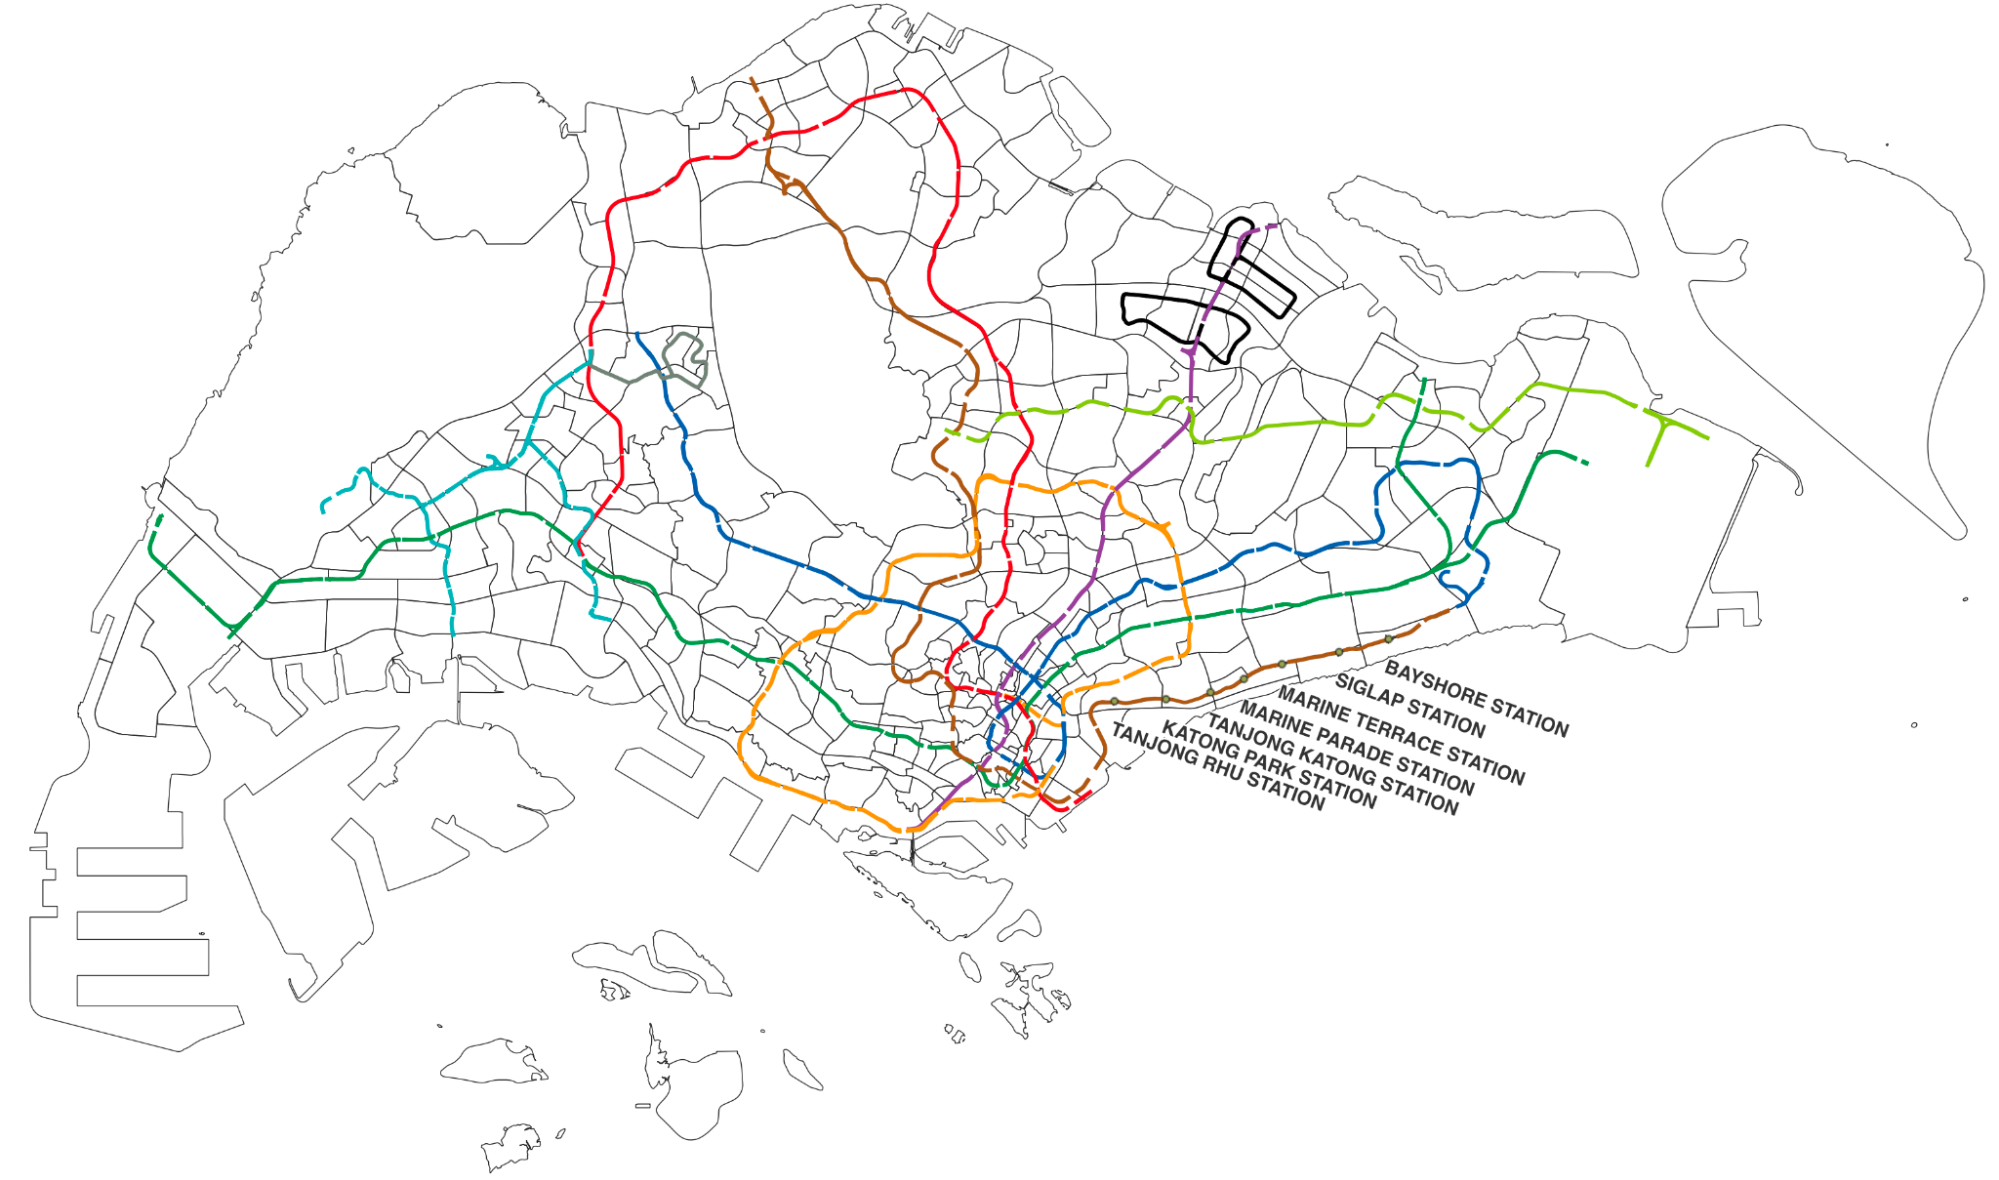
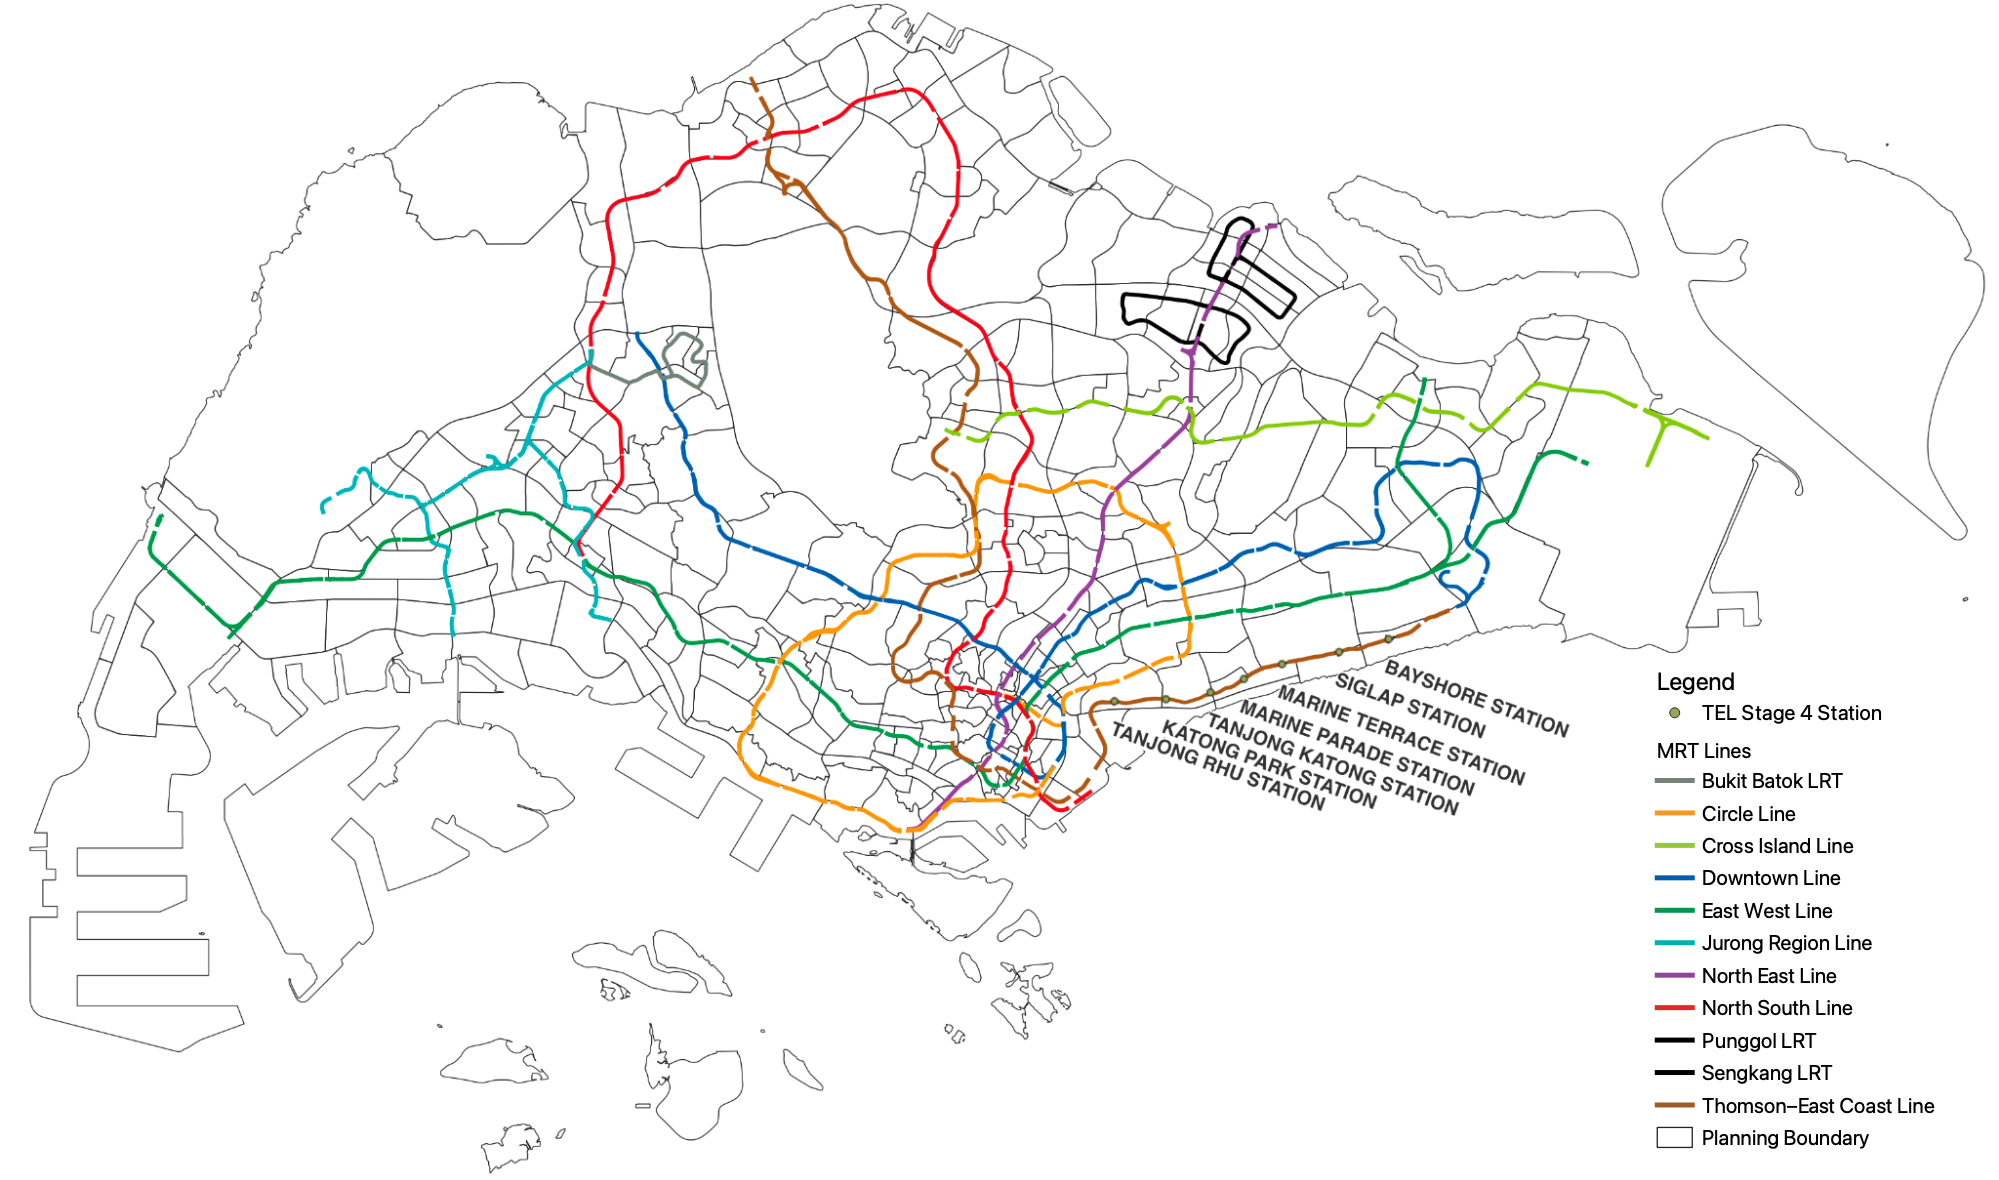
Final update

Changed region(s): [[0.8374, 0.5492, 0.9615, 0.9763]]

diff --git a/_site/takeaways.html b/_site/takeaways.html
@@ -112,6 +112,17 @@ ul.task-list li input[type="checkbox"] {
   <li><a href="#introduction" id="toc-introduction" class="nav-link active" data-scroll-target="#introduction">Introduction</a></li>
   <li><a href="#circular-buffer-analysis" id="toc-circular-buffer-analysis" class="nav-link" data-scroll-target="#circular-buffer-analysis">Circular Buffer Analysis</a></li>
   <li><a href="#network-analysis" id="toc-network-analysis" class="nav-link" data-scroll-target="#network-analysis">Network Analysis</a></li>
+  <li><a href="#produced-maps" id="toc-produced-maps" class="nav-link" data-scroll-target="#produced-maps">Produced maps</a>
+  <ul class="collapse">
+  <li><a href="#legend" id="toc-legend" class="nav-link" data-scroll-target="#legend">Legend</a></li>
+  <li><a href="#tanjong-rhu-station" id="toc-tanjong-rhu-station" class="nav-link" data-scroll-target="#tanjong-rhu-station">Tanjong Rhu Station</a></li>
+  <li><a href="#katong-park-station" id="toc-katong-park-station" class="nav-link" data-scroll-target="#katong-park-station">Katong Park Station</a></li>
+  <li><a href="#tanjong-katong-station" id="toc-tanjong-katong-station" class="nav-link" data-scroll-target="#tanjong-katong-station">Tanjong Katong Station</a></li>
+  <li><a href="#marine-parade-station" id="toc-marine-parade-station" class="nav-link" data-scroll-target="#marine-parade-station">Marine Parade Station</a></li>
+  <li><a href="#marine-terrace-station" id="toc-marine-terrace-station" class="nav-link" data-scroll-target="#marine-terrace-station">Marine Terrace Station</a></li>
+  <li><a href="#siglap-station" id="toc-siglap-station" class="nav-link" data-scroll-target="#siglap-station">Siglap Station</a></li>
+  <li><a href="#bayshore-station" id="toc-bayshore-station" class="nav-link" data-scroll-target="#bayshore-station">Bayshore Station</a></li>
+  </ul></li>
   </ul>
 </nav>
     </div>
@@ -213,6 +224,7 @@ ul.task-list li input[type="checkbox"] {
 </table>
 <p>From the table, Marine Parade subzone is the most densely populated subzone. As such, it is beneficial to have Tanjong Katong and Marine Terrace stations in closer proximity to Marine Parade station to help distribute the demand for TEL stations and reduce human congestion.</p>
 <p>We also noticed that the Bedok South subzone is the second most densely populated area. As such, it is also practical to have Bayshore station accessible to residents living in the Bedok South subzone, even if Bedok MRT station (found in the East-West Line) is already in place.</p>
+<p><img src="images/Naive%20Bayshore.png" class="img-fluid"><img src="images/Naive%20Siglap.png" class="img-fluid"><img src="images/Naive%20Marine%20Terrace.png" class="img-fluid"><img src="images/Naive%20Marine%20Parade.png" class="img-fluid"><img src="images/Naive%20Tanjong%20Katong.png" class="img-fluid"><img src="images/Naive%20Tanjong%20Rhu.png" class="img-fluid"><img src="images/Merged%20Ridership.png" class="img-fluid"></p>
 </section>
 <section id="network-analysis" class="level2">
 <h2 class="anchored" data-anchor-id="network-analysis">Network Analysis</h2>
@@ -254,12 +266,46 @@ ul.task-list li input[type="checkbox"] {
 <p><img src="images/timage5.png" title="image_tooltip" class="img-fluid"></p>
 <p>In the charts above, we can observe that most of the stations in our work area have at least twice as much demand for cycling than just walking. We can also see the significant differences in the demand between dedicated cycling routes and cycling on shared roads, from about 3 times to more than 10 times, depending on the station.</p>
 <p>One thing to note is the concentration of bus trips within the Marine Parade MRT area. This may be due to the overlap of bus stops between the Tanjong Katong and Marine Terrace areas as previously mentioned.</p>
-<p id="gdcalert6">
-</p><p><img src="images/timage6.png" title="image_tooltip" class="img-fluid"></p>
+<p><img src="images/timage6.png" title="image_tooltip" class="img-fluid"></p>
 <p>We can also see the difference between the areas covered by the extended journeys using cycling, which increases significantly - from 10 times to more than 20 times.</p>
 <p>Through our research and analysis, we have discovered the increased value and accessibility of the Thomson East Coast Line (TEL) by using cycling routes. In line with the goals and provisions by the government for greater access to public transport and active mobility as previously mentioned, the development of biking infrastructure such as dedicated bike lanes and accessible bike parks can enable commuters to safely cycle more in their day-to-day commutes.</p>
+</section>
+<section id="produced-maps" class="level2">
+<h2 class="anchored" data-anchor-id="produced-maps">Produced maps</h2>
+<section id="legend" class="level3">
+<h3 class="anchored" data-anchor-id="legend">Legend</h3>
+<p><img src="images/legend.jpg" class="img-fluid"></p>
+</section>
+<section id="tanjong-rhu-station" class="level3">
+<h3 class="anchored" data-anchor-id="tanjong-rhu-station">Tanjong Rhu Station</h3>
+<p><img src="images/TANJONG%20RHU.png" class="img-fluid"></p>
+</section>
+<section id="katong-park-station" class="level3">
+<h3 class="anchored" data-anchor-id="katong-park-station">Katong Park Station</h3>
+<p><img src="images/Screenshot%202022-11-10%20at%209.09.34%20PM.png" class="img-fluid"></p>
+</section>
+<section id="tanjong-katong-station" class="level3">
+<h3 class="anchored" data-anchor-id="tanjong-katong-station">Tanjong Katong Station</h3>
+<p><img src="images/Screenshot%202022-11-10%20at%209.08.02%20PM.png" class="img-fluid"></p>
+</section>
+<section id="marine-parade-station" class="level3">
+<h3 class="anchored" data-anchor-id="marine-parade-station">Marine Parade Station</h3>
+<p><img src="images/Screenshot%202022-11-10%20at%209.07.44%20PM.png" class="img-fluid"></p>
+</section>
+<section id="marine-terrace-station" class="level3">
+<h3 class="anchored" data-anchor-id="marine-terrace-station">Marine Terrace Station</h3>
+<p><img src="images/Screenshot%202022-11-10%20at%209.07.08%20PM.png" class="img-fluid"></p>
+</section>
+<section id="siglap-station" class="level3">
+<h3 class="anchored" data-anchor-id="siglap-station">Siglap Station</h3>
+<p><img src="images/Screenshot%202022-11-10%20at%209.05.15%20PM.png" class="img-fluid"></p>
+</section>
+<section id="bayshore-station" class="level3">
+<h3 class="anchored" data-anchor-id="bayshore-station">Bayshore Station</h3>
+<p><img src="images/Screenshot%202022-11-10%20at%206.14.04%20PM.png" class="img-fluid"></p>
 
 
+</section>
 </section>
 
 </main> <!-- /main -->

diff --git a/_site/index.html b/_site/index.html
@@ -133,10 +133,10 @@ ul.task-list li input[type="checkbox"] {
 </header>
 
 <p>A report published by the Singapore Department of Statistics (2020) has shown an increase in ridership, travelling time and distance across all types of public transport in Singapore, possibly leading to increased traffic congestion or breakdowns of public transport systems. Accessible and effective public transportation is essential to enable the thriving economy of the urban-dense, fast-paced island nation. This is why good planning of mass public transport systems like the Mass Rapid Transport (MRT) system is so important.</p>
-<p>Most recently, the development of the Thomson East Coast Line (TEL) has been a crucial part of Singapore’s plan to enable 4 in every 5 households to live within a 10-minute walk of a train station <a href="#fn1" class="footnote-ref" id="fnref1" role="doc-noteref"><sup>1</sup></a>. There have also been plans to expand the island wide cycling network to about 700 km by 2030 <a href="#fn2" class="footnote-ref" id="fnref2" role="doc-noteref"><sup>2</sup></a>. Our team will measure, analyse, and evaluate the effectiveness of the proposed Stage 4 TEL stations and the implementation of a cycling path network in those areas.</p>
+<p>Most recently, the development of the Thomson East Coast Line (TEL) has been a crucial part of Singapore’s plan to enable 4 in every 5 households to live within a 10-minute walk of a train station. <a href="#fn1" class="footnote-ref" id="fnref1" role="doc-noteref"><sup>1</sup></a> There have also been plans to expand the island wide cycling network to about 700 km by 2030. <a href="#fn2" class="footnote-ref" id="fnref2" role="doc-noteref"><sup>2</sup></a> Our team will measure, analyse, and evaluate the effectiveness of the proposed Stage 4 TEL stations and the implementation of a cycling path network in those areas.</p>
 <p>The seven Stage 4 TEL stations we will analyse are shown below:</p>
 <p><img src="images/sg_mrts.png" class="img-fluid"></p>
-<p>In addition to its much later opening in 2027 <a href="#fn3" class="footnote-ref" id="fnref3" role="doc-noteref"><sup>3</sup></a>, most residential areas near the Founders’ Memorial station are covered by buffer zones of the adjacent Tanjong Rhu MRT. We will thus exclude the TE22A Founders’ Memorial MRT station from our analysis.</p>
+<p>In addition to its much later opening in 2027, <a href="#fn3" class="footnote-ref" id="fnref3" role="doc-noteref"><sup>3</sup></a> most residential areas near the Founders’ Memorial station are covered by buffer zones of the adjacent Tanjong Rhu MRT. We will thus exclude the TE22A Founders’ Memorial MRT station from our analysis.</p>
 <p>Stages of analysis:</p>
 <ol type="1">
 <li>Initial Data Exploration and Analysis

diff --git a/_site/report.html b/_site/report.html
@@ -7,7 +7,7 @@
 <meta name="viewport" content="width=device-width, initial-scale=1.0, user-scalable=yes">
 
 
-<title>Catching Thomson - Link to Final Report</title>
+<title>Catching Thomson - Link to final report</title>
 <style>
 code{white-space: pre-wrap;}
 span.smallcaps{font-variant: small-caps;}
@@ -86,10 +86,10 @@ ul.task-list li input[type="checkbox"] {
     <a class="nav-link" href="./proposal.html">Proposal</a>
   </li>  
   <li class="nav-item">
-    <a class="nav-link" href="./takeaways.html">Takeaways</a>
+    <a class="nav-link active" href="./report.html" aria-current="page">Report</a>
   </li>  
   <li class="nav-item">
-    <a class="nav-link active" href="./report.html" aria-current="page">Report</a>
+    <a class="nav-link" href="./takeaways.html">Takeaways</a>
   </li>  
   <li class="nav-item">
     <a class="nav-link" href="./poster.html">Poster</a>
@@ -112,7 +112,7 @@ ul.task-list li input[type="checkbox"] {
 
 <header id="title-block-header" class="quarto-title-block default">
 <div class="quarto-title">
-<h1 class="title">Link to Final Report</h1>
+<h1 class="title">Link to final report</h1>
 </div>
 
 
@@ -126,7 +126,7 @@ ul.task-list li input[type="checkbox"] {
 
 </header>
 
-<p>Please find our final report here: <a href="https://docs.google.com/document/d/1uSBuuHMckSJPBSkNvQ696-Sj5R72REnfBPUo9FD5ig0/edit?usp=sharing" class="uri">https://docs.google.com/document/d/1uSBuuHMckSJPBSkNvQ696-Sj5R72REnfBPUo9FD5ig0/edit?usp=sharing</a></p>
+<p>Please find our final report <a href="https://docs.google.com/document/d/1uSBuuHMckSJPBSkNvQ696-Sj5R72REnfBPUo9FD5ig0/edit?usp=sharing">here</a>.</p>
 
 
 

diff --git a/_site/proposal.html b/_site/proposal.html
@@ -86,10 +86,10 @@ ul.task-list li input[type="checkbox"] {
     <a class="nav-link active" href="./proposal.html" aria-current="page">Proposal</a>
   </li>  
   <li class="nav-item">
-    <a class="nav-link" href="./takeaways.html">Takeaways</a>
+    <a class="nav-link" href="./report.html">Report</a>
   </li>  
   <li class="nav-item">
-    <a class="nav-link" href="./report.html">Report</a>
+    <a class="nav-link" href="./takeaways.html">Takeaways</a>
   </li>  
   <li class="nav-item">
     <a class="nav-link" href="./poster.html">Poster</a>
@@ -161,7 +161,16 @@ ul.task-list li input[type="checkbox"] {
 <li>Building Layers</li>
 <li>POI Layers</li>
 </ul></li>
-<li>LTA Data Mall Bus Stop Data</li>
+<li>LTA Data Mall
+<ul>
+<li>Bus Stop Usage</li>
+</ul></li>
+<li>data.gov.sg
+<ul>
+<li>Bus Stop Locations</li>
+<li>Planning Subzone Boundaries</li>
+<li>Subzone Population</li>
+</ul></li>
 </ul>
 </section>
 <section id="scope-of-work" class="level2">

diff --git a/_site/poster.html b/_site/poster.html
@@ -86,10 +86,10 @@ ul.task-list li input[type="checkbox"] {
     <a class="nav-link" href="./proposal.html">Proposal</a>
   </li>  
   <li class="nav-item">
-    <a class="nav-link" href="./takeaways.html">Takeaways</a>
+    <a class="nav-link" href="./report.html">Report</a>
   </li>  
   <li class="nav-item">
-    <a class="nav-link" href="./report.html">Report</a>
+    <a class="nav-link" href="./takeaways.html">Takeaways</a>
   </li>  
   <li class="nav-item">
     <a class="nav-link active" href="./poster.html" aria-current="page">Poster</a>
